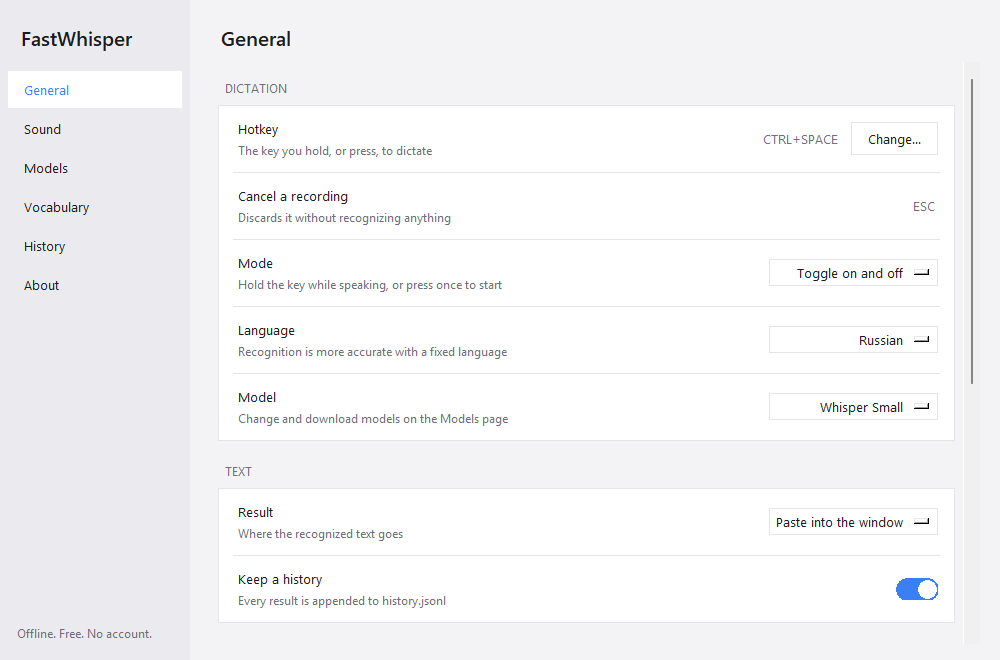
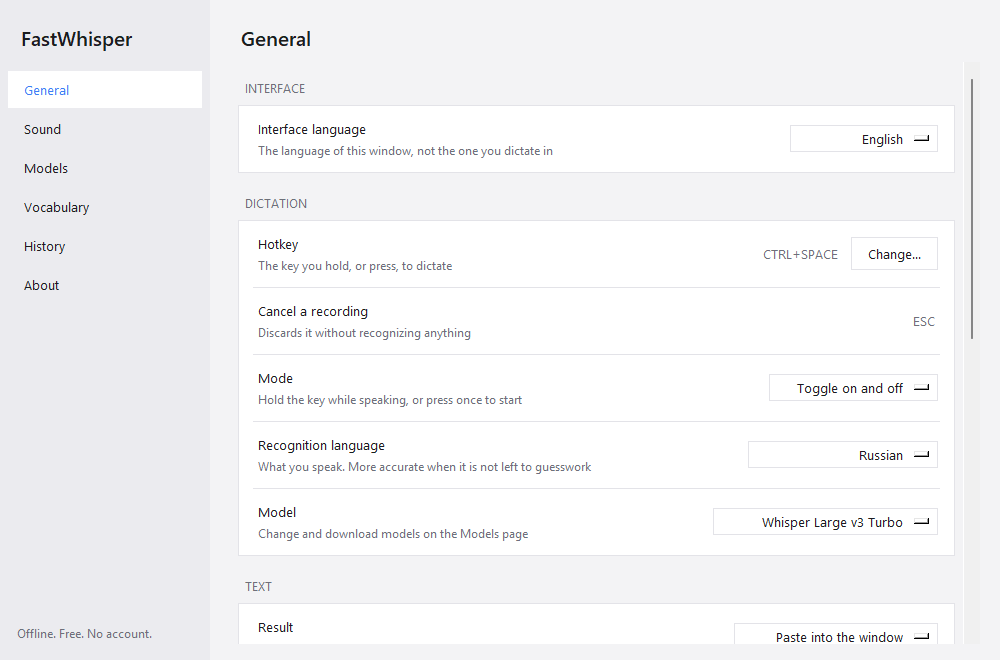
Regenerate the screenshots from the current build
The settings picture predated the interface language row, so the README was
showing a page that no longer exists and hiding the setting people ask about
first. Regenerated from the current code, with the first-run picker and the same
page in Russian added - the localisation was described in words and shown
nowhere.

diff --git a/README.md b/README.md
@@ -156,9 +156,19 @@ with the window you are dictating into. Turn it off or move it in *Settings -> G
 ## Screenshots
 
 <p align="center">
-  <img src="assets/screenshot-general.png" alt="Settings" width="760"><br>
+  <img src="assets/screenshot-setup.png" alt="Choosing a model on the first launch" width="700">
+</p>
+<p align="center"><i>The first launch asks which model to use, and what each one costs you.</i></p>
+
+<p align="center">
+  <img src="assets/screenshot-general.png" alt="Settings" width="760">
+</p>
+<p align="center"><i>Settings. The interface language is the first thing on the page.</i></p>
+
+<p align="center">
   <img src="assets/screenshot-models.png" alt="Models" width="760">
 </p>
+<p align="center"><i>Models: who trained each one, how accurate it is, what it costs in disk and in waiting.</i></p>
 
 ## Settings
 
@@ -181,6 +191,10 @@ The interface speaks English and Russian. It follows Windows by default - a Russ
 Windows gets a Russian interface, anything else gets English - and *General → Interface
 language* overrides that. It is separate from the language you dictate in: a Russian
 interface is no reason to stop dictating in English.
+
+<p align="center">
+  <img src="assets/screenshot-general-ru.png" alt="The same page in Russian" width="700">
+</p>
 
 Anything set here is written to `%APPDATA%\FastWhisper\config.json` immediately.
 
